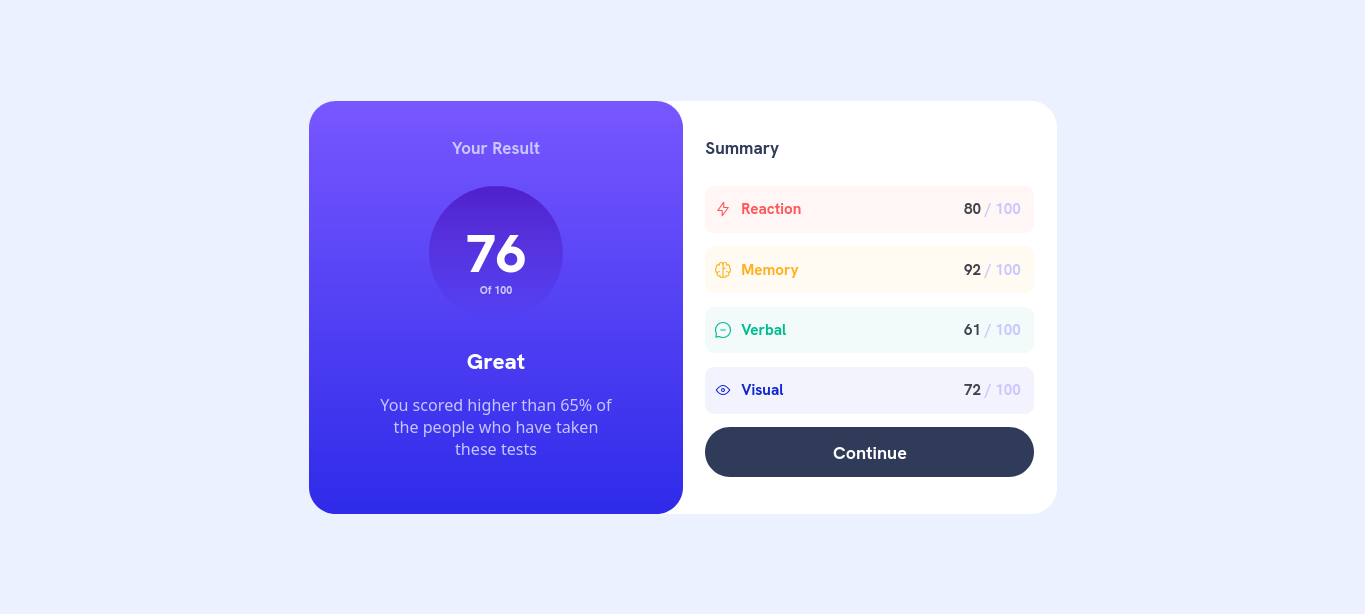
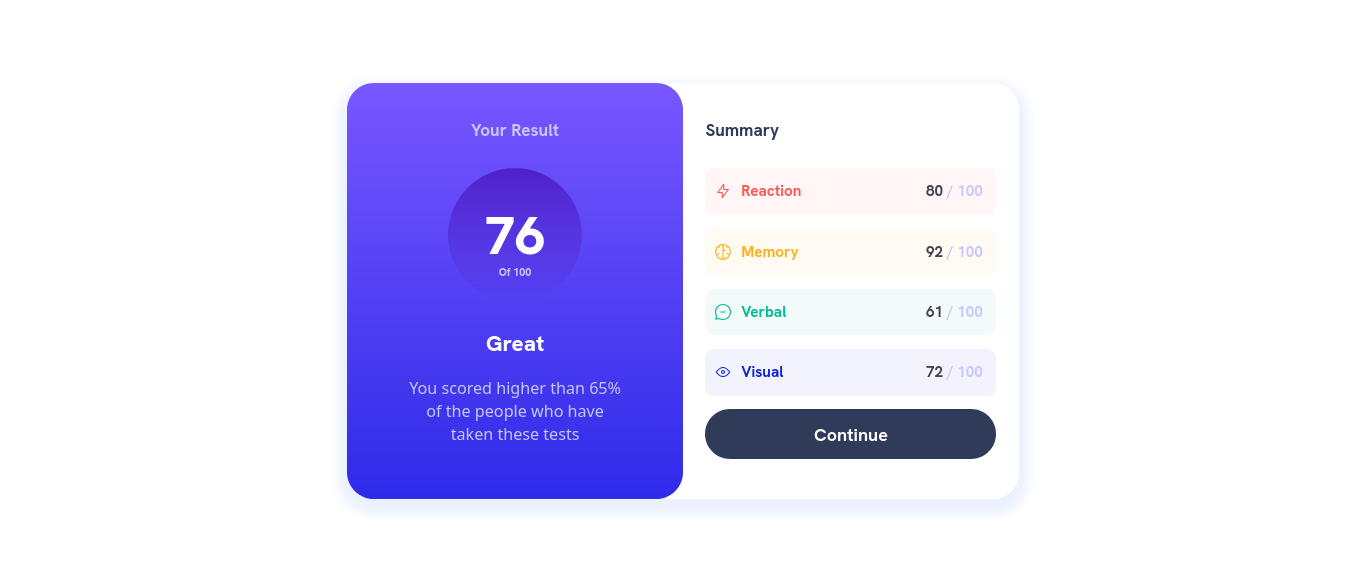
adding max-width + change the background-color to white + adding box-shadow

diff --git a/css/style.css b/css/style.css
@@ -56,7 +56,6 @@
 }      
 body {   
         font-family: 'Hanken Grotesk', sans-serif;  
-        background-color: var(--Pale-blue)   
 }
 /* End Global Rules */
 
@@ -71,7 +70,9 @@ main {
         display: flex;
         border-radius: 30px;
         background-color: var(--White);
-        text-transform: capitalize
+        text-transform: capitalize;
+        box-shadow: 0px 8px 12px 10px var(--Pale-blue);
+        max-width: 750px
 }
 @media (max-width: 767px) {
         main {
